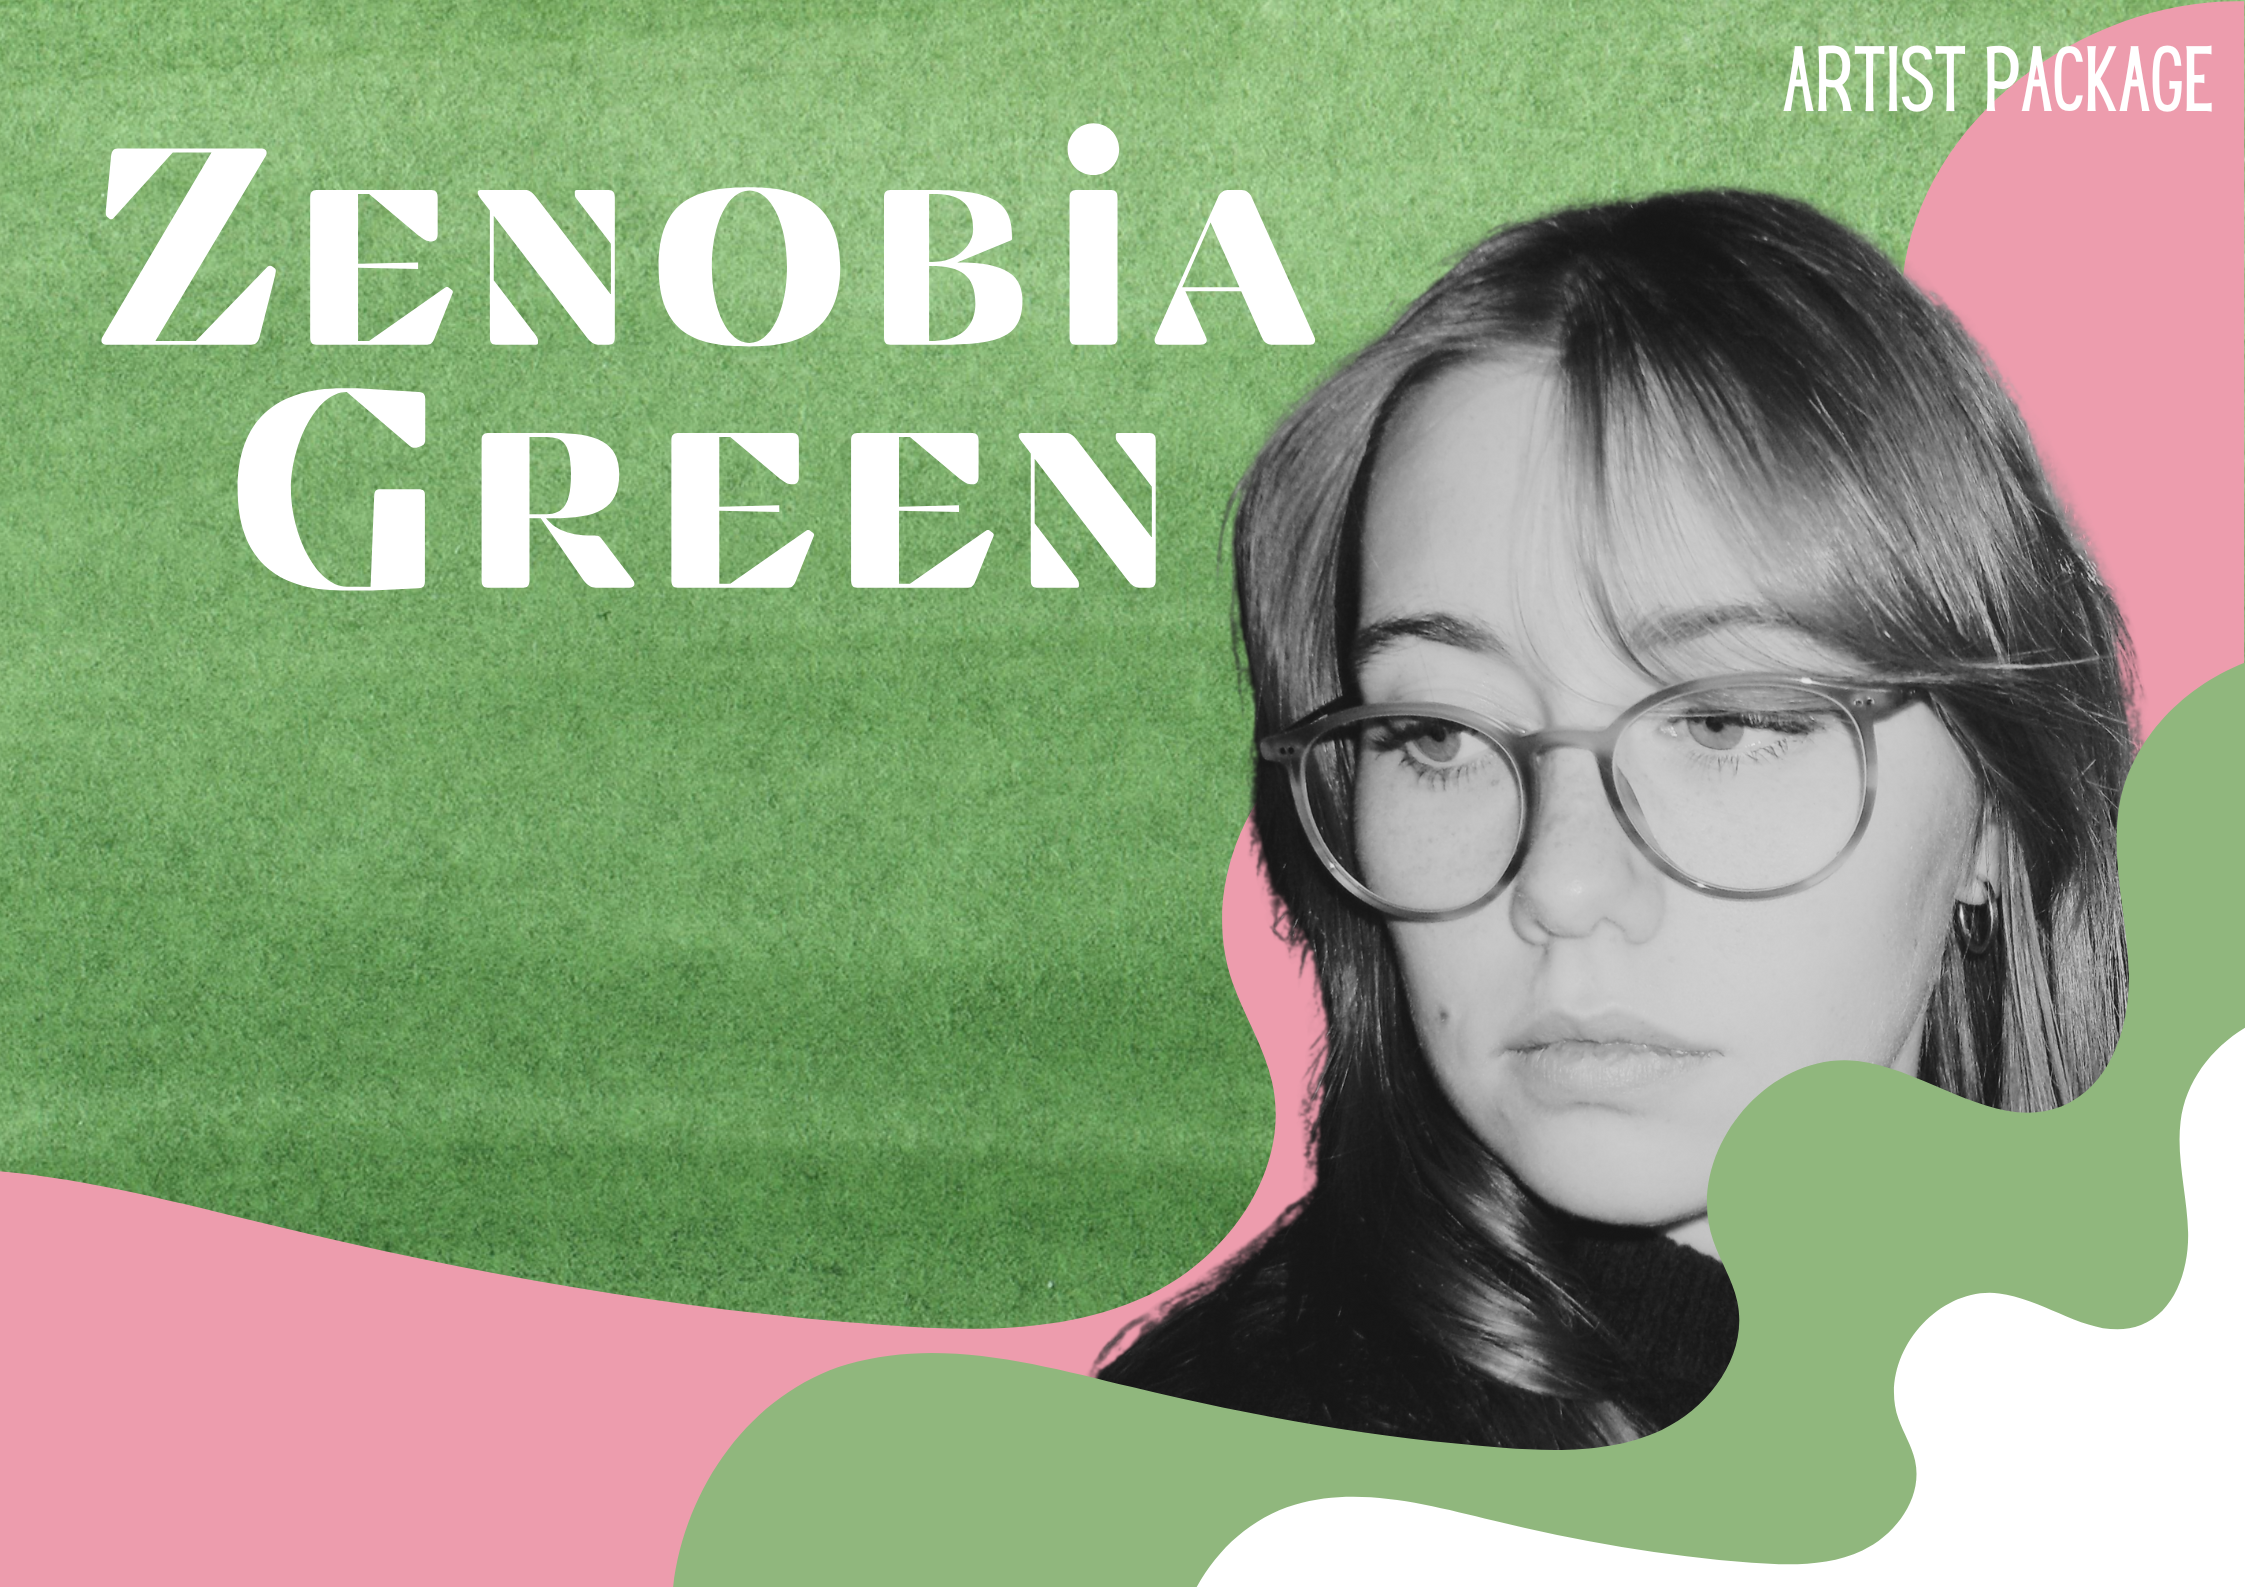
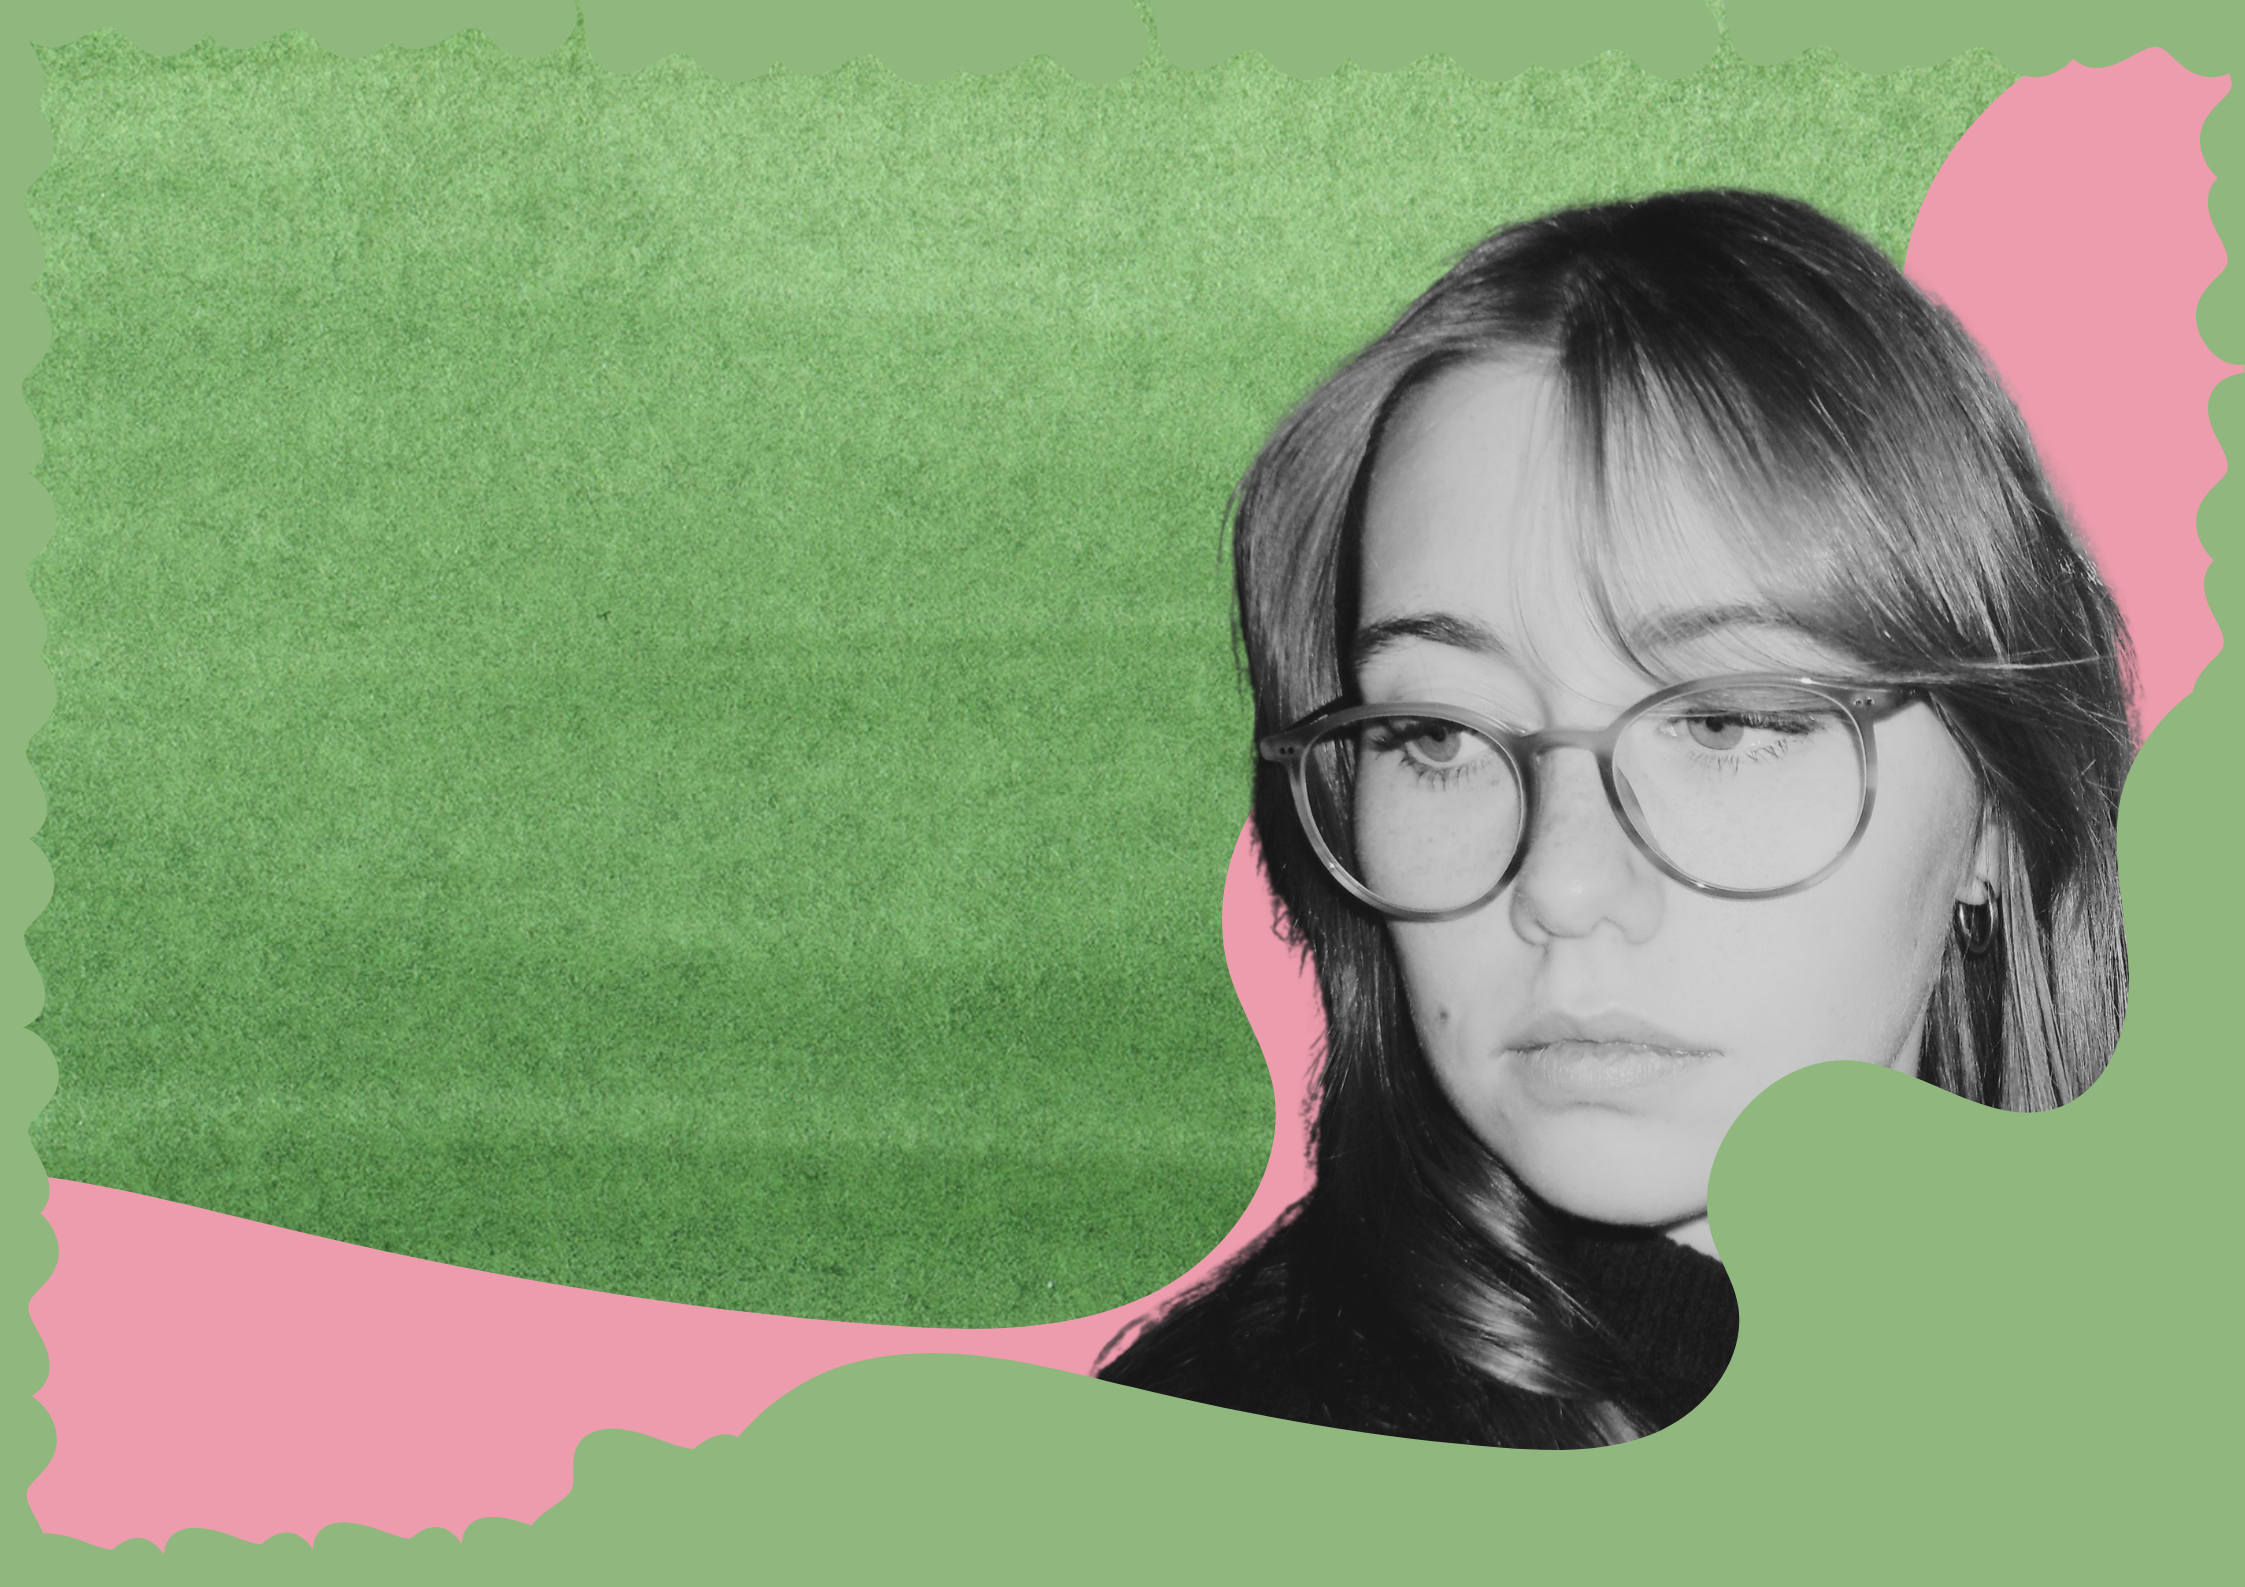
Add dates

diff --git a/my-bootstrap-project/src/index.html b/my-bootstrap-project/src/index.html
@@ -6,9 +6,12 @@
     <title>Zenobia Green Music</title>
     <link rel="stylesheet" href="https://stackpath.bootstrapcdn.com/bootstrap/4.5.2/css/bootstrap.min.css">
     <link rel="stylesheet" href="css/styles.css">
+    <link rel="preconnect" href="https://fonts.googleapis.com">
+    <link rel="preconnect" href="https://fonts.gstatic.com" crossorigin>
+    <link href="https://fonts.googleapis.com/css2?family=Trade+Winds&display=swap" rel="stylesheet">
 </head>
 <body>
-    <header class="navbar navbar-expand-lg navbar-dark bg-dark">
+    <header class="navbar navbar-expand-lg navbar-dark">
         <button class="navbar-toggler" type="button" data-toggle="collapse" data-target="#navbarNav" aria-controls="navbarNav" aria-expanded="false" aria-label="Toggle navigation">
             <span class="navbar-toggler-icon"></span>
         </button>
@@ -18,7 +21,10 @@
                     <a class="nav-link" href="#intro">Intro</a>
                 </li>
                 <li class="nav-item">
-                    <a class="nav-link" href="#albums">Albums</a>
+                    <a class="nav-link" href="#discography">Discography</a>
+                </li>
+                <li class="nav-item">
+                    <a class="nav-link" href="#live-dates">Live Dates</a>
                 </li>
                 <li class="nav-item">
                     <a class="nav-link" href="#about">About</a>
@@ -28,18 +34,17 @@
     </header>
 
     <div class="container mt-5">
-        <section id="intro" class="mb-5">
-            <h2>Welcome to Zenobia Green Music</h2>
-            <p>This is a simple project using Bootstrap.</p>
+        <section id="intro" class="mb-5 text-center">
+            <h1 class="mb-5">Welcome to Zenobia Green Music</h1>
             <img src="images/intro.png" class="img-fluid" alt="Intro Image">
         </section>
 
-        <section id="albums" class="mb-5">
-            <h2>Albums</h2>
+        <section id="discography" class="mb-5 text-center">
+            <h1>Discography</h1>
             <div class="row">
                 <div class="col-md-4">
                     <div class="card mb-4">
-                        <img src="images/album1.jpg" class="card-img-top" alt="Album 1">
+                        <img src="images/album1.png" class="card-img-top" alt="Album 1">
                         <div class="card-body">
                             <h5 class="card-title">Album 1</h5>
                             <p class="card-text">Lorem ipsum dolor sit amet, consectetur adipiscing elit.</p>
@@ -70,8 +75,19 @@
             </div>
         </section>
 
-        <section id="about" class="mb-5">
-            <h2>About</h2>
+        <section id="live-dates" class="mb-5 text-center">
+            <h1>Live Dates</h1>
+            <ul class="list-unstyled">
+                <li><strong>January 15, 2024</strong> - New York, NY</li>
+                <li><strong>February 20, 2024</strong> - Los Angeles, CA</li>
+                <li><strong>March 10, 2024</strong> - Chicago, IL</li>
+                <li><strong>April 5, 2024</strong> - Houston, TX</li>
+                <li><strong>May 25, 2024</strong> - Miami, FL</li>
+            </ul>
+        </section>
+
+        <section id="about" class="mb-5 text-center">
+            <h1>About</h1>
             <p>Lorem ipsum dolor sit amet, consectetur adipiscing elit. Sed do eiusmod tempor incididunt ut labore et dolore magna aliqua. Ut enim ad minim veniam, quis nostrud exercitation ullamco laboris nisi ut aliquip ex ea commodo consequat. Duis aute irure dolor in reprehenderit in voluptate velit esse cillum dolore eu fugiat nulla pariatur. Excepteur sint occaecat cupidatat non proident, sunt in culpa qui officia deserunt mollit anim id est laborum.</p>
         </section>
     </div>

diff --git a/my-bootstrap-project/src/css/styles.css b/my-bootstrap-project/src/css/styles.css
@@ -4,6 +4,12 @@ html, body {
     padding: 0;
 }
 
+.trade-winds-regular {
+    font-family: "Trade Winds", serif;
+    font-weight: 400;
+    font-style: normal;
+  }  
+
 body {
     display: flex;
     flex-direction: column;
@@ -11,12 +17,15 @@ body {
     background-color: #90b77d;
 }
 
-.container {
+.container-fluid {
     flex: 1;
+    padding: 0 15px;
 }
 
 h1, h2, h3 {
     color: #343a40;
+    text-align: center;
+    font-family: Trade Winds, serif;
 }
 
 .btn-custom {
@@ -30,10 +39,12 @@ h1, h2, h3 {
 }
 
 .navbar {
-    background-color: #343a40;
+    background-color: #ed9cad;
     margin: 0;
     padding: 0;
     width: 100%; 
+    font-size: 1.5em;
+    font-family: Trade Winds, serif;
 }
 
 .footer-custom {
